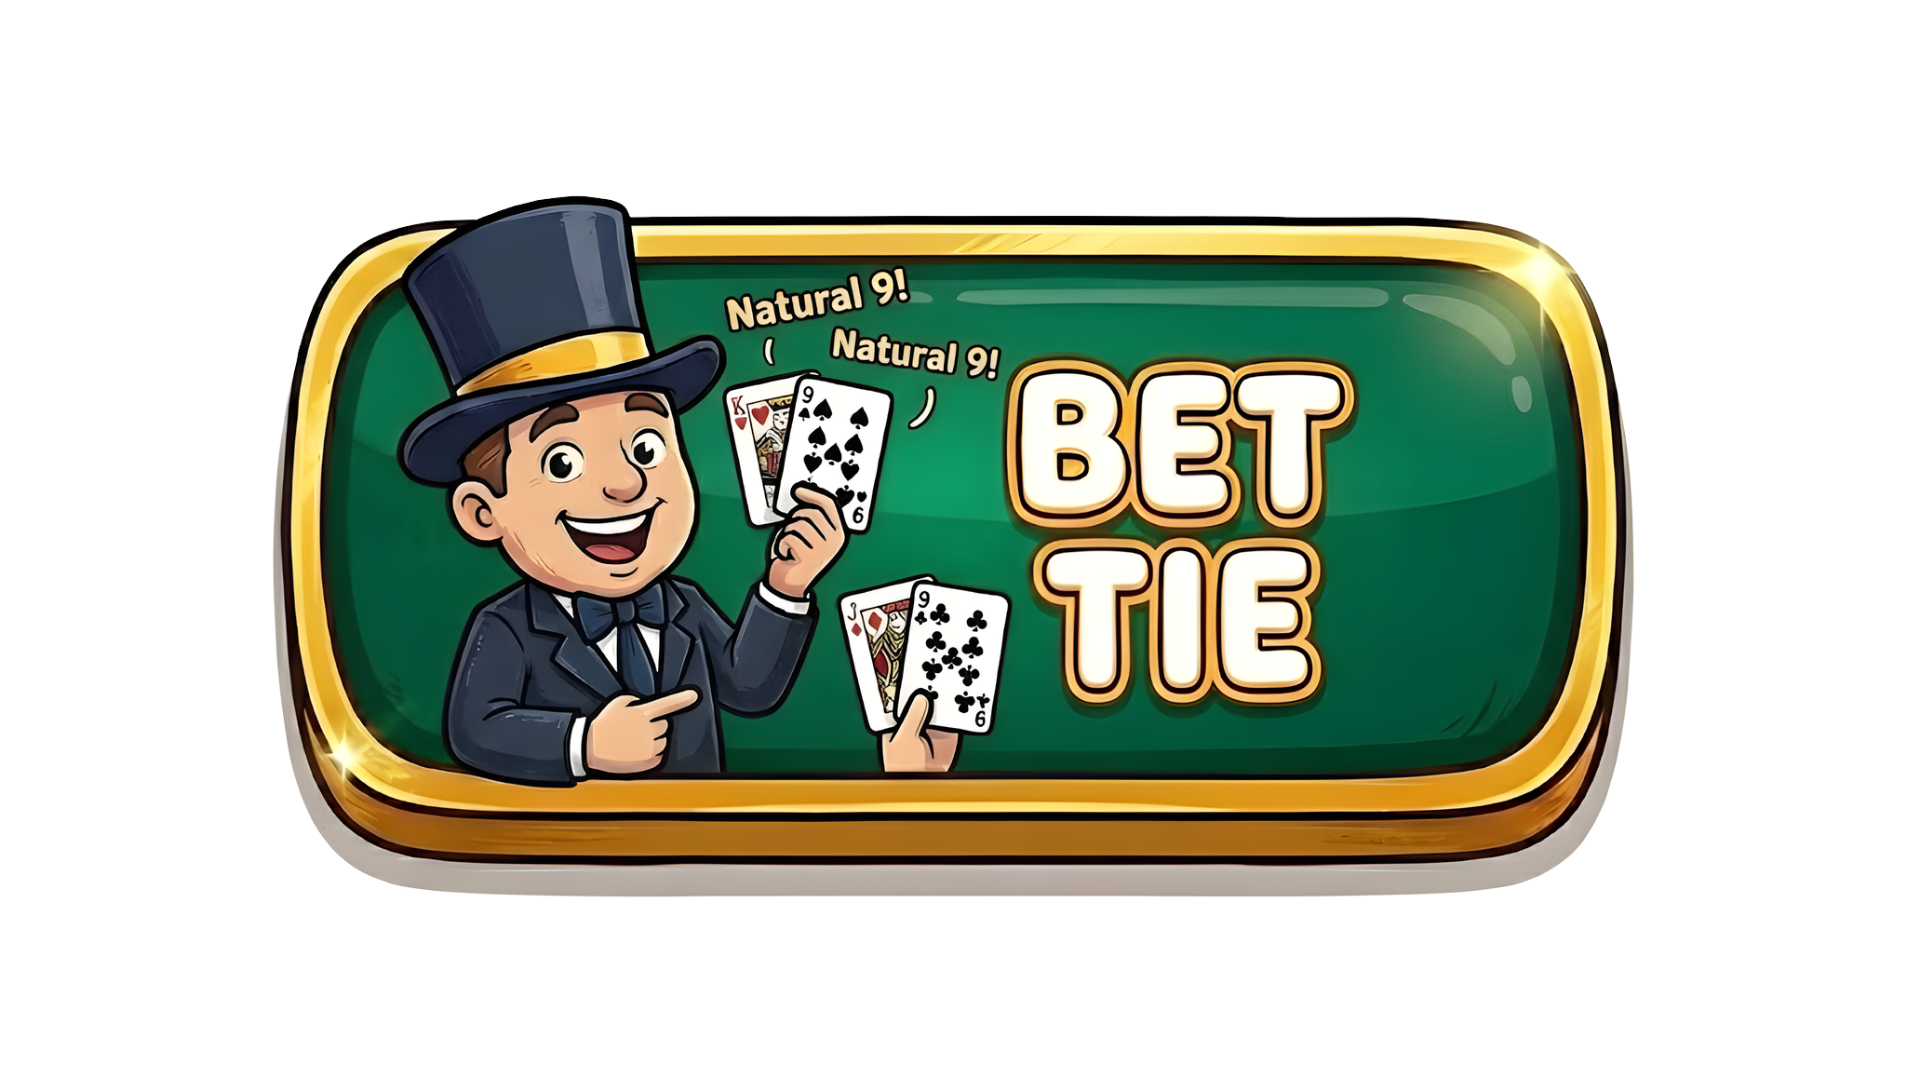
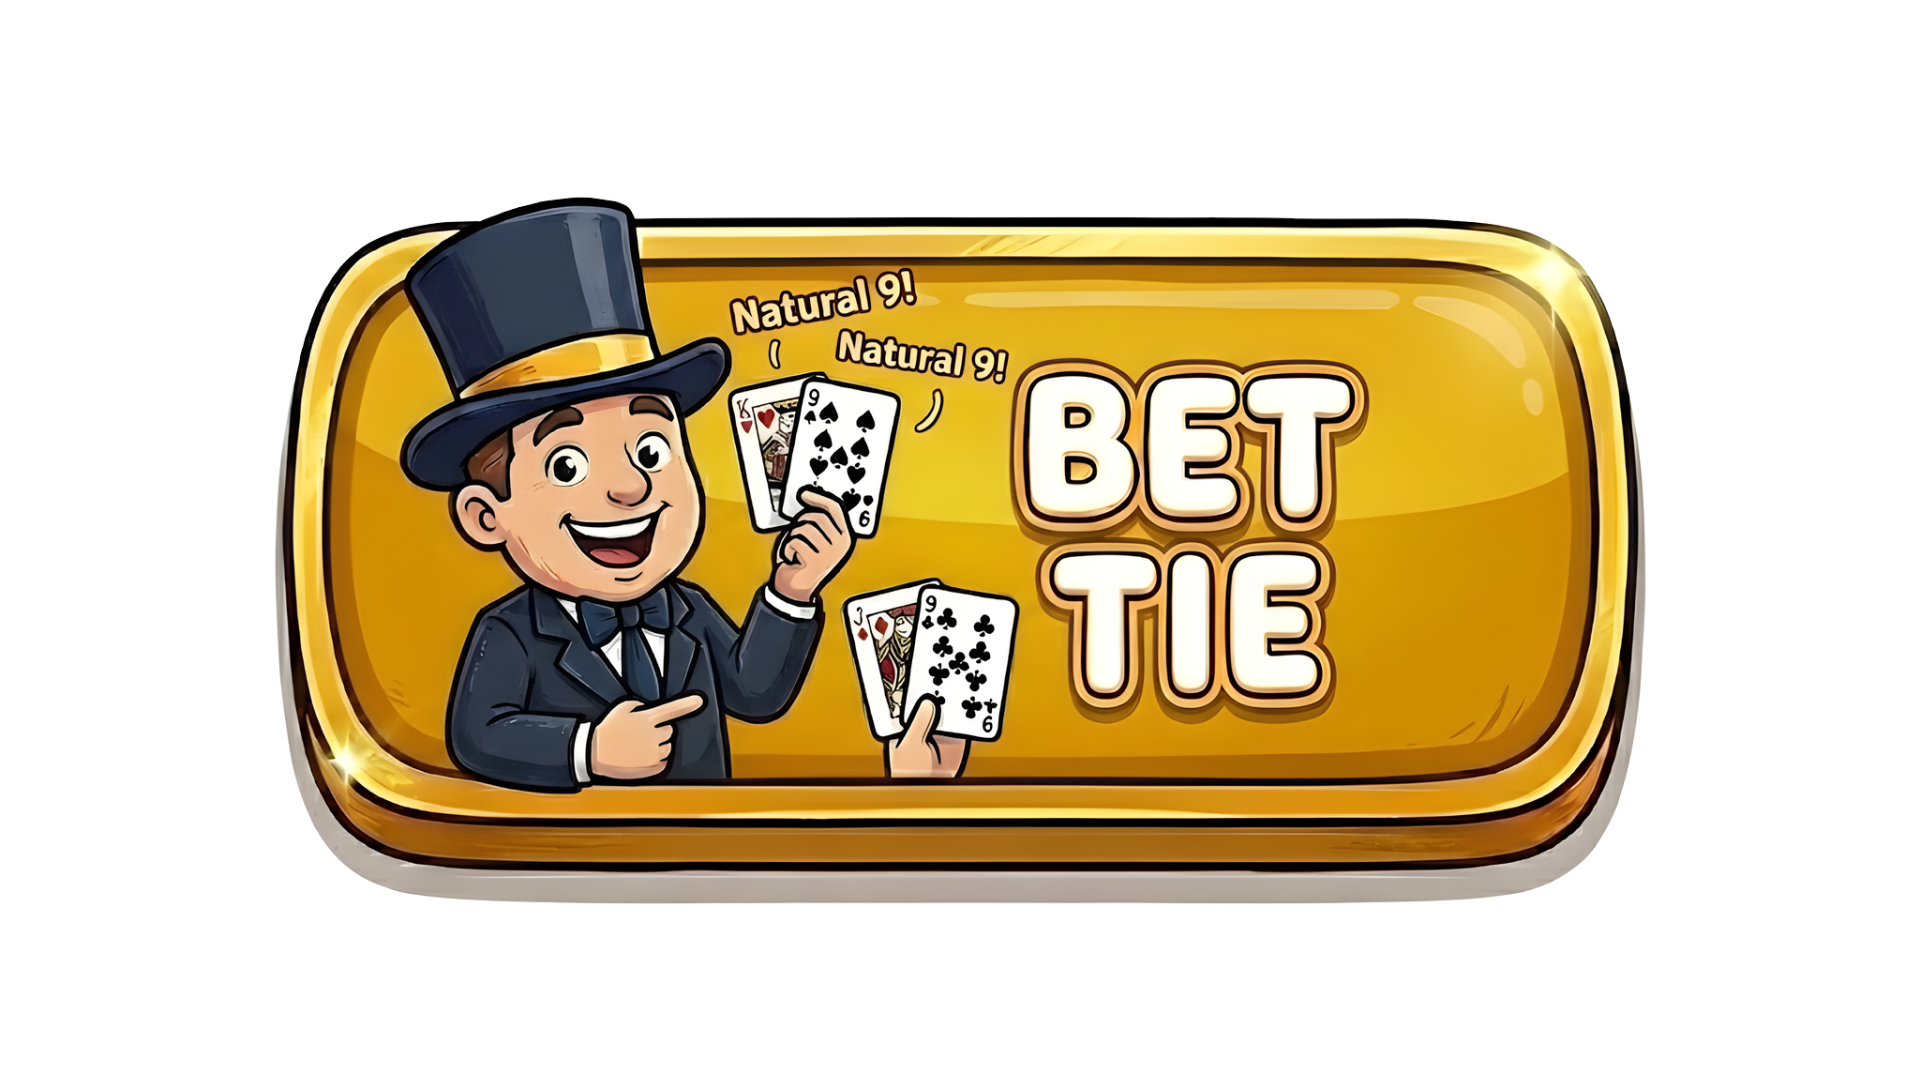
change tie button to yellow

Changed region(s): [[0.125, 0.1833, 0.875, 0.8556]]

diff --git a/src/pages/baccarat2.tsx b/src/pages/baccarat2.tsx
@@ -198,7 +198,7 @@ export default function Baccarat2Page() {
 
         setLastOutcome(outcome);
         setHistory(prev => [outcome, ...prev]);
-        
+
         // Delay popup to let user see result
         setTimeout(() => {
             setShowPopup(true);
@@ -281,25 +281,25 @@ export default function Baccarat2Page() {
                             </div>
                         </div>
 
-                        {/* Betting Buttons - Reverted to Text */}
-                        <div className="flex flex-row gap-3 w-full justify-center">
+                        {/* Betting Buttons - Images */}
+                        <div className="flex flex-row gap-3 w-full justify-center items-center">
                             <button
                                 onClick={() => setBetType("PLAYER")}
-                                className={`w-32 py-3 rounded-xl border-2 font-bold text-lg transition-all ${betType === "PLAYER" ? "bg-blue-600 border-blue-400 scale-105 shadow-[0_0_20px_rgba(37,99,235,0.5)]" : "bg-blue-900/40 border-blue-800 hover:bg-blue-900/60 backdrop-blur-md"}`}
+                                className={`transition-all hover:scale-105 ${betType === "PLAYER" ? "scale-110 drop-shadow-[0_0_15px_rgba(37,99,235,0.8)]" : "opacity-80 hover:opacity-100"}`}
                             >
-                                BET PLAYER
+                                <img src="/buttons/player.png" alt="Bet Player" className="w-32 object-contain" />
                             </button>
                             <button
                                 onClick={() => setBetType("TIE")}
-                                className={`w-32 py-3 rounded-xl border-2 font-bold text-lg transition-all ${betType === "TIE" ? "bg-green-600 border-green-400 scale-105 shadow-[0_0_20px_rgba(22,163,74,0.5)]" : "bg-green-900/40 border-green-800 hover:bg-green-900/60 backdrop-blur-md"}`}
+                                className={`transition-all hover:scale-105 ${betType === "TIE" ? "scale-110 drop-shadow-[0_0_15px_rgba(22,163,74,0.8)]" : "opacity-80 hover:opacity-100"}`}
                             >
-                                BET TIE
+                                <img src="/buttons/tie.png" alt="Bet Tie" className="w-32 object-contain" />
                             </button>
                             <button
                                 onClick={() => setBetType("BANKER")}
-                                className={`w-32 py-3 rounded-xl border-2 font-bold text-lg transition-all ${betType === "BANKER" ? "bg-red-600 border-red-400 scale-105 shadow-[0_0_20px_rgba(220,38,38,0.5)]" : "bg-red-900/40 border-red-800 hover:bg-red-900/60 backdrop-blur-md"}`}
+                                className={`transition-all hover:scale-105 ${betType === "BANKER" ? "scale-110 drop-shadow-[0_0_15px_rgba(220,38,38,0.8)]" : "opacity-80 hover:opacity-100"}`}
                             >
-                                BET BANKER
+                                <img src="/buttons/banker.png" alt="Bet Banker" className="w-32 object-contain" />
                             </button>
                         </div>
 
